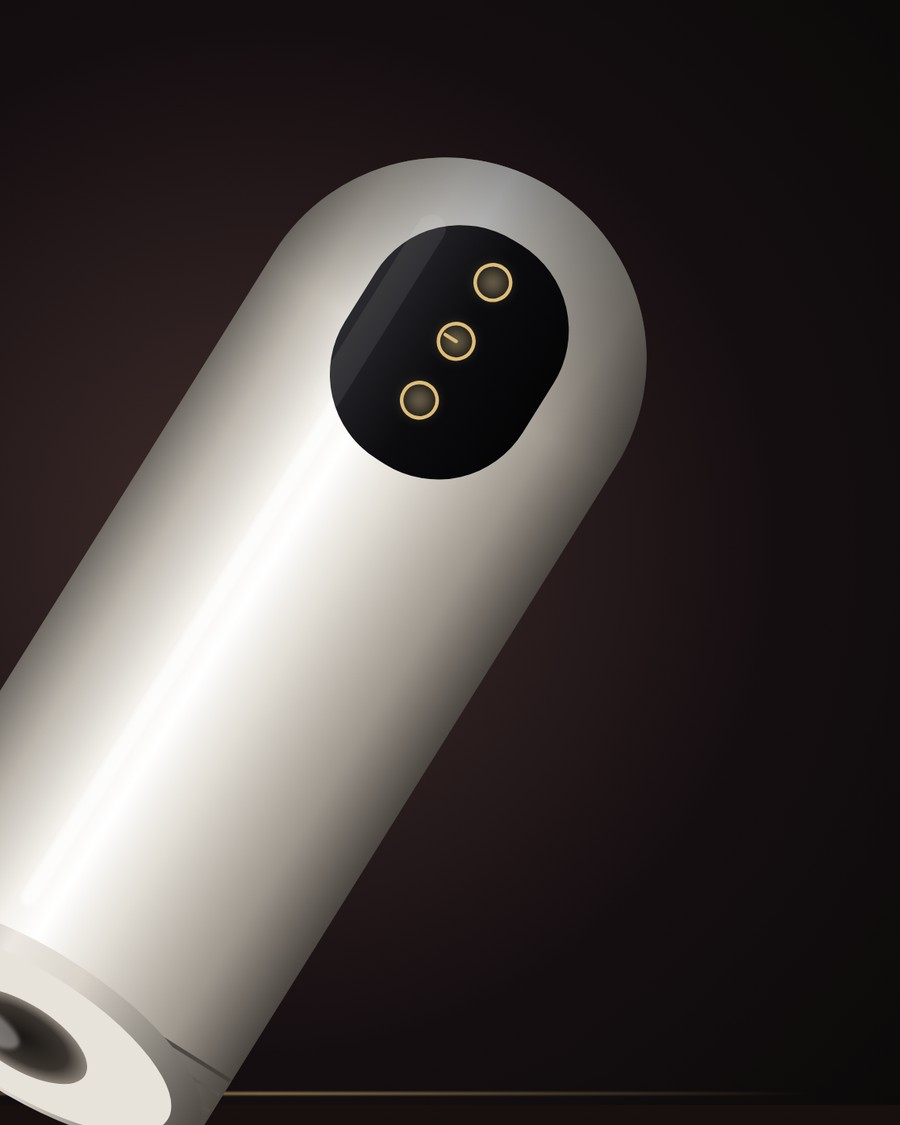
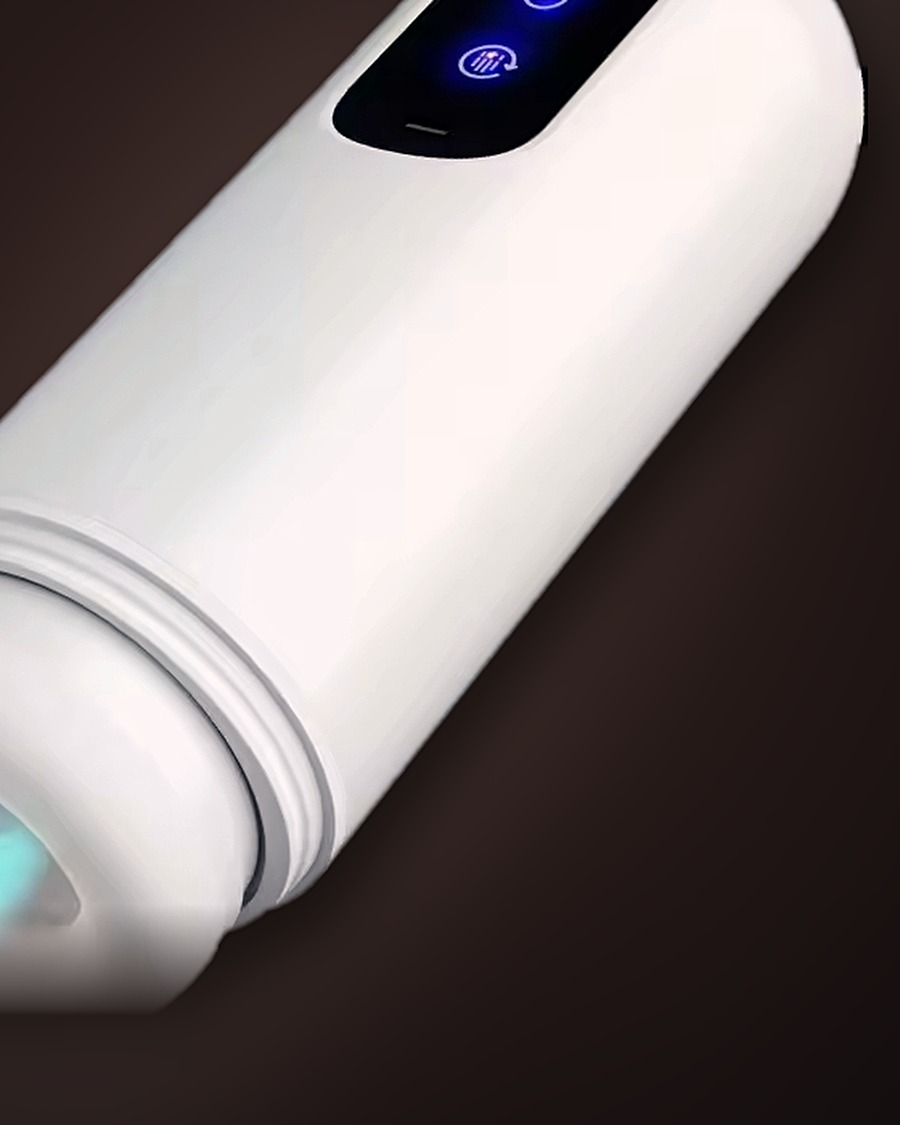
Celestial: use supplier photo on subdued background, price $240
Claude-Session: https://claude.ai/code/session_01SD8AQiwQRDpEeTxmCouKAr

diff --git a/src/lib/commerce/products.ts b/src/lib/commerce/products.ts
@@ -119,11 +119,11 @@ const own: Base[] = [
     badge: "New", featured: 9, createdAt: "2026-11-20",
   },
   {
-    // Added 2026-11-20 at Steve's request (For Him). Image is a studio-style render on the house set; the supplier's
+    // Added 2026-11-20 at Steve's request (For Him), $240 set by Steve. Image is the supplier photo cut out onto a subdued background; the supplier's
     // photo carries marketing text. Placeholders to confirm with the supplier: price, materials, specs, voice feature.
     id: "p17", handle: "celestial", title: "Celestial", subtitle: "Rotating, thrusting automatic stroker",
-    description: "A sleek ivory capsule with a glass-black touch panel that glows softly to life. Inside, a skin-soft sleeve rotates and draws in rhythmic waves, hands-free, while a quiet motor keeps every moment your own.",
-    category: "sculptural-essentials", materials: ["Body-safe ABS"], price: usd(139),
+    description: "A sleek pearl-white capsule with a glass-black touch panel that glows softly to life. Inside, a skin-soft sleeve rotates and draws in rhythmic waves, hands-free, while a quiet motor keeps every moment your own.",
+    category: "sculptural-essentials", materials: ["Body-safe ABS"], price: usd(240),
     specs: [{ label: "Sleeve", value: "Removable, skin-soft TPE" }, { label: "Motion", value: "Rotation and thrust, several modes" }, { label: "Controls", value: "Touch panel" }, { label: "Care", value: "Rinse the sleeve, use a water-based lubricant" }],
     images: [
       { src: "/media/products/celestial-1.jpg", alt: "Celestial, an ivory automatic stroker with a black touch panel" },
